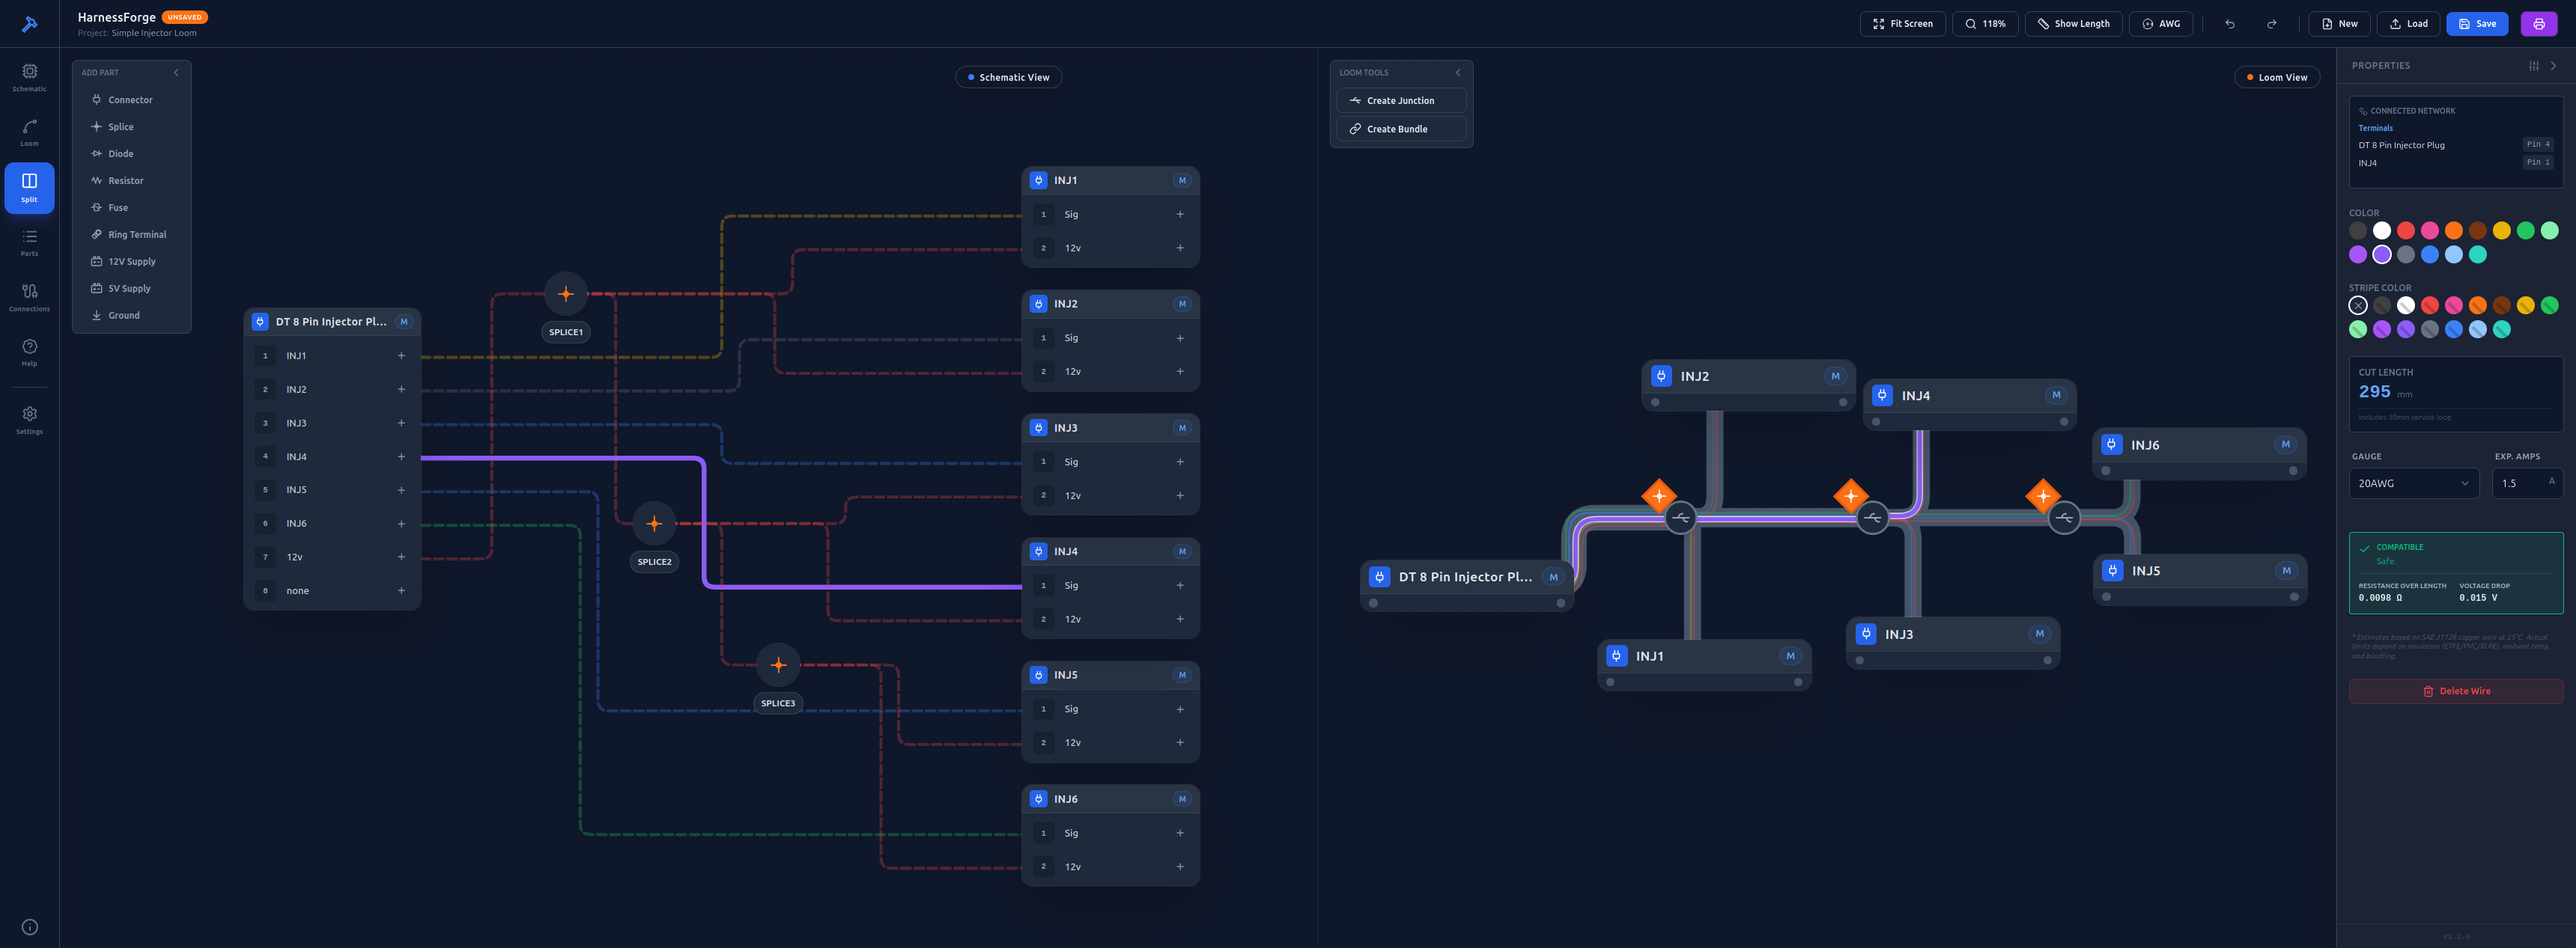
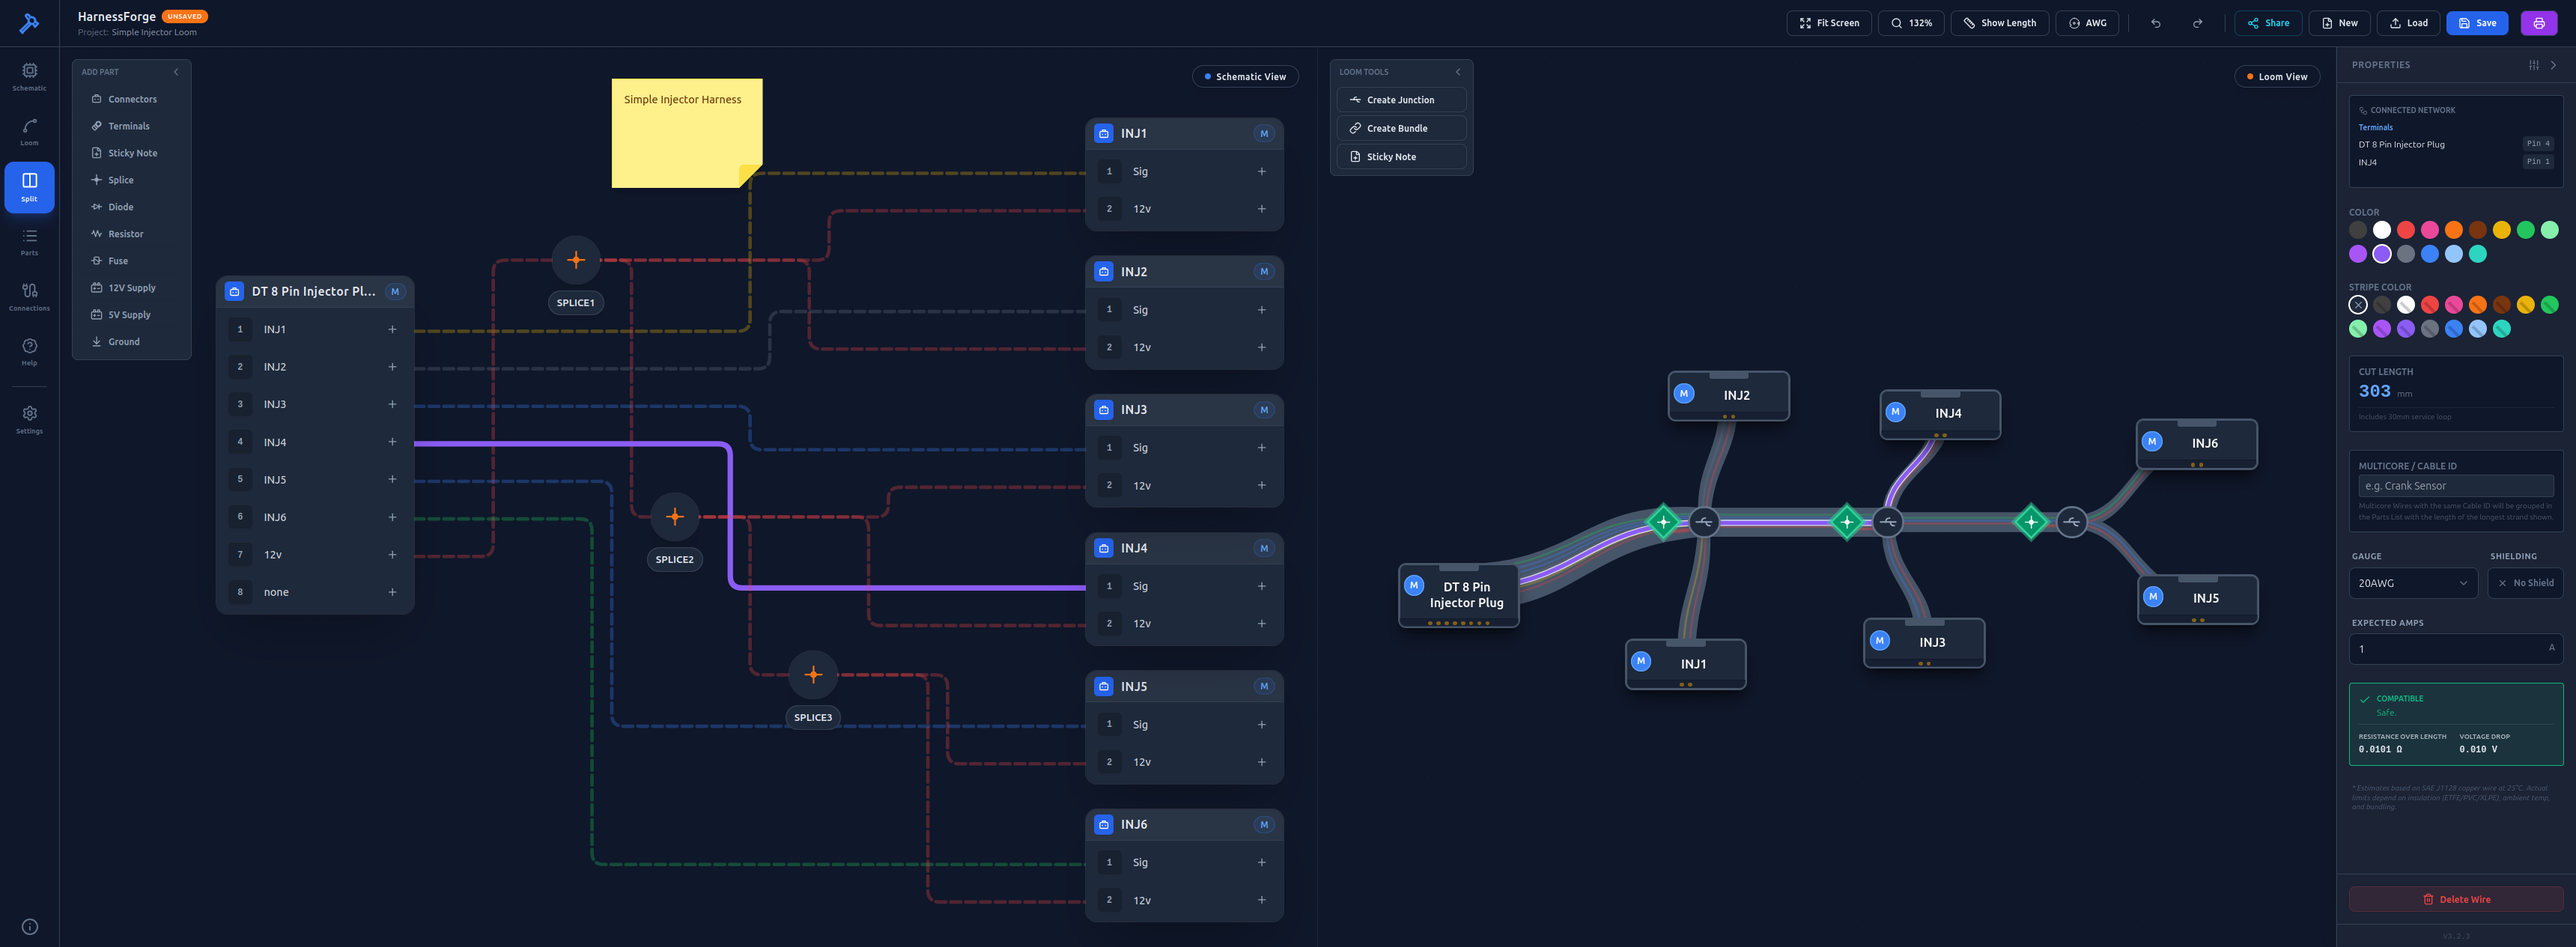
Pushing 3.2.3

diff --git a/README.md b/README.md
@@ -36,11 +36,13 @@ It uses TailwindCSSv3 and the lucide-react icon set.
     * Connectors can have notes and diagrams added.
 * Loom:
     * Virtual representation of the physical loom (connector to connector)
+    * Wires take shortest/best path through loom between connectors.
     * Define bundle lengths and physical routing.
     * Junctions: Place junctions to split your loom into multiple paths.
     * Splices: Splices defined in schematic view can be snapped to bundles and auto-calculate wire lengths before and after the splice.
     * Cut List Calculation: Automatically calculates wire lengths including a configurable service loop.
 
+* Sticky Notes: Add notes with additional context/info to your diagram.
 * Component Management: Support for Connectors (DT/Custom), Splices, Diodes, Resistors, Fuses, and Relays.
 * Wire Circuit Highlighting: Show all connected pins on the circuit via a Breadth-First Search (BFS).
 * Data Export/Import:
@@ -54,9 +56,40 @@ It uses TailwindCSSv3 and the lucide-react icon set.
 
 
 # Installation & Setup
-
 For Local installations Electron release builds are provided for Linux (Deb/Appimage/tar.gz) and Windows (exe) it is also published online via Vercel at [harnessforge.app](https://harnessforge.app).
-The in app "Help" view on the side bar is typically the most up to date and complete documentation with screenshots.
+
+Linux (deb)
+Download latest version from releases. 
+In Terminal:
+```
+sudo dpkg -i harness-forge_3.x.x_amd64.deb
+```
+
+Linux (AppImage)
+Download Latest Version from releases.
+In Terminal set executable permission (+x):
+```
+chmod +x HarnessForge-3.x.x.AppImage
+```
+Then run the AppImage.
+
+Linux (tar.gz)
+Download latest version from releases. 
+In Terminal:
+```
+tar -xvf harness-forge-3.x.x.tar.gz
+cd harness-forge-3.x.x
+./harness-forge
+```
+Alternatively browse to the folder in your filemanager of choice and double click harness-forge.
+
+Note: Some distro's throw errors about sandbox helper binary - this is distro and Electron/chrome-sandbox specific and not this app so you're on your own there. Standard cause is AppArmor in Ubuntu which in certain configurations requires an AppArmor profile to be added. Executing it from the filemanager generally works also.
+
+Windows (exe)
+Download latest version from releases, Double Click Installer exe to install.
+
+# Documentation
+The in app "Help" view on the side bar is typically the most up to date and complete documentation with screenshots and examples.
 
 # User Guide
 ## The Interface:
@@ -99,7 +132,6 @@ This is where you define how the wires are physically routed.
 **Note: Bundles have a source and a destination, when you change the length of a bundle it will push/pull the destination side away from the source side.**
 * Auto-Routing: Wires created in the Schematic view automatically flow through these bundles using the shortest path algorithm.
 * Splices: Drag a Splice node onto a Bundle. It will snap to the bundle, the location of these is critical as it will calculate the wire length either side of the splice.
-**Note: Try and keep Splices one grid point away from (Bézier) curved corners as it can bug the calculated lengths in certain cases.**
 * Bundle Length: Click a bundle to set its length in the properties field then press enter. Or just enable the Show Length toggle and drag it to the desired length.
 
 ## Wire Lengths & Calculations
@@ -113,13 +145,16 @@ The tool automatically calculates the wire length required to build the harness.
 
 ## FAQ
 * Q: I have finished my schematic view now there are a bunch of parts connected by dashed lines on my loom page, what do I do now?
-    * A: The dashed wires on the loom page represent the logical connections created by the schematic, in order to physicalise these you need to connect them with bundles. Bundles can either connect two components together or a component to a junction point. Use junctions as an exit point for you to split things out of the loom on a different path. The example files included demonstrate this.
+    * A: The dashed wires on the loom page represent the logical connections created by the schematic, in order to physicalise these you need to connect them with bundles. Bundles can either connect two components together or a component to a junction point. Use junctions as an exit point for you to split things out of the loom on a different path. The example files listed above demonstrate this.
 * Q: I have run a wire with a splice on the schematics page but I am seeing "Not routed in Loom"
     * A: The Splice (diamond) objects need to be snapped into a bundle on the loom before wire lengths can be calculated with splices.
-    * A Cont: Resistors and diode's are intentionally not included on the loom page as such wires running to these will always show "Not routed in Loom" and no lengths will be calculated.
+    * A Cont: Resistors and diode's are intentionally excluded on the loom page and as such any wires running to these will always show "Not routed in Loom" and no lengths will be calculated.
 * Q: I want to represent both sides of a connector of an associated harness but now my wire lengths are wrong.
     * A: In the **Schematic View** first make sure there are wires mapped to the appropriate pins (eg Pin 1 Male to Pin 1 Female, Pin 2 Male to Pin 2 Female etc.), once connected drag the connectors until they are physically next to eachother, if connectors are butted up next to eachother this will hide the connections underneath if you prefer.
-    * A Cont: In the **Loom View** do not create a bundle joining them as this will effect wire lengths, there will be a dashed line (Air Wire) connecting them logically, just drag them side by side to hide this underneath. Wire pathing will continue on the other side of the connector to it's destination and wire cut lengths will remain correct.
+    * A Cont: In the **Loom View** do not create a bundle joining them as this will effect wire lengths, there will be a dashed line (Air Wire) connecting them logically, just drag them side by side to hide this underneath if you prefer. Wire pathing will continue on the other side of the connector to it's destination and wire cut lengths will remain correct.
+
+## Release Notes
+* See releases for notes per version.
 
 ## Known Issues
 * Windows Build Specific: Printing Schematic or Loom to PDF occasionally shows some 1 pixel tearing. Seems to be something specific to the Windows Electron build only.
